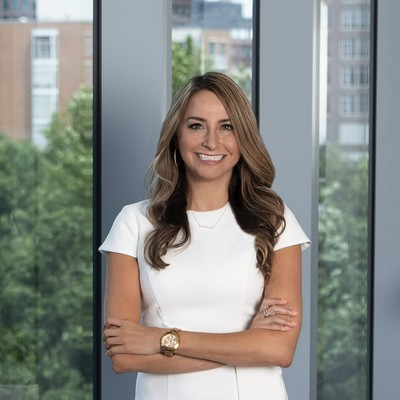
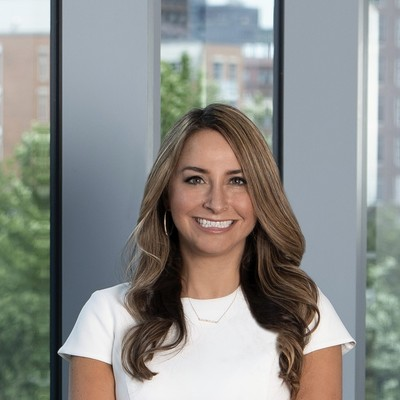
Frame realtor headshots as full squares, add Armando Chacon with his real photo
The agent photos were inheriting the storefront-banner shapes (up to 3:1),
which cropped foreheads and chins off square headshots. Agent photos now use
explicit squares matching the source aspect, so nothing is clipped: a 240px
square in the spotlight and a 150px circle in the grid.

- Armando Chacon is back with the headshot Dan supplied, plus his verified
  Instagram, Facebook, and LinkedIn.
- Ilsa Conover's photo replaced the initials placeholder and is cropped tighter
  so her face reads at the same scale as the others.
- Agent image URLs carry a ?v= token: the filenames did not change, so
  returning visitors would otherwise keep seeing the cached placeholder.

diff --git a/css/style.css b/css/style.css
@@ -994,6 +994,38 @@ body.photo-banner .hero {
 .hh-meta { font-size: 0.8rem; color: var(--muted); margin: 4px 0 2px; }
 .hh-when { font-size: 0.85rem; color: var(--navy); margin: 0 0 6px; }
 .hh-deal { font-size: 0.9rem; color: var(--text); margin: 0 0 8px; }
+/* Realtor headshots. Business photos are wide storefront banners; a square
+   headshot forced into one gets its forehead and chin sliced off. These are
+   explicit squares that match the source's own shape, so nothing is cropped.
+   The !important flags beat .spotlight-card img's min-height and .card-img's
+   full-bleed negative margins, which are right for storefronts, not faces. */
+.agent-photo {
+  width: 240px !important;
+  height: 240px !important;
+  min-height: 0 !important;
+  max-height: none !important;
+  object-fit: cover;
+  object-position: 50% 15%;
+  border-radius: var(--radius);
+  margin: 24px auto !important;
+  justify-self: center;
+  align-self: start;
+  background: #eef2f6;
+}
+.agent-card-img {
+  width: 150px !important;
+  height: 150px !important;
+  max-height: none !important;
+  margin: 4px auto 12px !important;
+  border-radius: 50%;
+  object-fit: cover;
+  object-position: 50% 15%;
+  display: block;
+}
+@media (max-width: 700px) {
+  .agent-photo { width: 200px !important; height: 200px !important; margin: 18px auto !important; }
+}
+
 .agent-socials { display: flex; flex-wrap: wrap; gap: 0.5rem; margin: 0.4rem 0 0.6rem; }
 .agent-social-link { font-size: 0.78rem; font-weight: 600; color: var(--navy); text-decoration: none;
   border: 1px solid var(--border); border-radius: 999px; padding: 0.18rem 0.7rem; background: #fff; }

diff --git a/housing.html b/housing.html
@@ -4,7 +4,7 @@
 <meta charset="UTF-8">
 <meta name="viewport" content="width=device-width, initial-scale=1.0">
 <title>Find a Home | In and Around the West Loop</title>
-<link rel="stylesheet" href="css/style.css?v=20260721b">
+<link rel="stylesheet" href="css/style.css?v=20260721d">
 <meta property="og:type" content="website">
 <meta property="og:site_name" content="34thward.com">
 <meta property="og:title" content="The Official 34th Ward Neighborhood Page">
@@ -123,7 +123,7 @@
   <section class="spotlight-section" id="agent-spotlight" hidden style="margin-top:0;">
     <div class="spotlight-inner">
       <div class="spotlight-card">
-        <img id="agent-img" src="" alt="">
+        <img id="agent-img" class="agent-photo" src="" alt="">
         <div class="spotlight-body">
           <h3 id="agent-name"></h3>
           <p class="spotlight-address" id="agent-brokerage"></p>
@@ -170,7 +170,7 @@
       .join('');
   }
 
-  fetch('data/agents.json?d=20260721c')
+  fetch('data/agents.json?d=20260721e')
     .then((r) => r.json())
     .then((data) => {
       // Only agents with a real photo are listed or featured (owner rule).
@@ -195,7 +195,7 @@
 
       document.getElementById('agents-grid').innerHTML = agents.map((a) => {
         const pic = a.image
-          ? `<img class="card-img" src="${escA(a.image)}" alt="${escA(a.name)}" onerror="this.remove()">`
+          ? `<img class="card-img agent-card-img" src="${escA(a.image)}" alt="${escA(a.name)}" onerror="this.remove()">`
           : '';
         const phone = a.phone ? ` &middot; ${esc(a.phone)}` : '';
         return `<article class="card">

diff --git a/agent-archive.html b/agent-archive.html
@@ -4,7 +4,7 @@
 <meta charset="UTF-8">
 <meta name="viewport" content="width=device-width, initial-scale=1.0">
 <title>Agent Spotlight Archive | In and Around the West Loop</title>
-<link rel="stylesheet" href="css/style.css?v=20260721b">
+<link rel="stylesheet" href="css/style.css?v=20260721d">
 <meta property="og:type" content="website">
 <meta property="og:site_name" content="34thward.com">
 <meta property="og:title" content="The Official 34th Ward Neighborhood Page">
@@ -74,7 +74,7 @@
 <script>
   document.getElementById('year').textContent = new Date().getFullYear();
 
-  const ARCHIVE_DATA_V = '20260721c';
+  const ARCHIVE_DATA_V = '20260721e';
 
   fetch('data/agents.json?d=' + ARCHIVE_DATA_V)
     .then((r) => r.json())

diff --git a/archive.html b/archive.html
@@ -4,7 +4,7 @@
 <meta charset="UTF-8">
 <meta name="viewport" content="width=device-width, initial-scale=1.0">
 <title>Business Spotlight Archive | In and Around the West Loop</title>
-<link rel="stylesheet" href="css/style.css?v=20260721b">
+<link rel="stylesheet" href="css/style.css?v=20260721d">
 <meta property="og:type" content="website">
 <meta property="og:site_name" content="34thward.com">
 <meta property="og:title" content="The Official 34th Ward Neighborhood Page">

diff --git a/culture.html b/culture.html
@@ -4,7 +4,7 @@
 <meta charset="UTF-8">
 <meta name="viewport" content="width=device-width, initial-scale=1.0">
 <title>Museums &amp; Theaters | In and Around the West Loop</title>
-<link rel="stylesheet" href="css/style.css?v=20260721b">
+<link rel="stylesheet" href="css/style.css?v=20260721d">
 <meta property="og:type" content="website">
 <meta property="og:site_name" content="34thward.com">
 <meta property="og:title" content="The Official 34th Ward Neighborhood Page">

diff --git a/directory.html b/directory.html
@@ -4,7 +4,7 @@
 <meta charset="UTF-8">
 <meta name="viewport" content="width=device-width, initial-scale=1.0">
 <title>Business Directory | In and Around the West Loop</title>
-<link rel="stylesheet" href="css/style.css?v=20260721b">
+<link rel="stylesheet" href="css/style.css?v=20260721d">
 <meta property="og:type" content="website">
 <meta property="og:site_name" content="34thward.com">
 <meta property="og:title" content="The Official 34th Ward Neighborhood Page">

diff --git a/happyhour.html b/happyhour.html
@@ -4,7 +4,7 @@
 <meta charset="UTF-8">
 <meta name="viewport" content="width=device-width, initial-scale=1.0">
 <title>Happy Hour Deals | In and Around the West Loop</title>
-<link rel="stylesheet" href="css/style.css?v=20260721b">
+<link rel="stylesheet" href="css/style.css?v=20260721d">
 <meta property="og:type" content="website">
 <meta property="og:site_name" content="34thward.com">
 <meta property="og:title" content="The Official 34th Ward Neighborhood Page">

diff --git a/index.html b/index.html
@@ -4,7 +4,7 @@
 <meta charset="UTF-8">
 <meta name="viewport" content="width=device-width, initial-scale=1.0">
 <title>In and Around the West Loop | Community News</title>
-<link rel="stylesheet" href="css/style.css?v=20260721b">
+<link rel="stylesheet" href="css/style.css?v=20260721d">
 <meta property="og:type" content="website">
 <meta property="og:site_name" content="34thward.com">
 <meta property="og:title" content="The Official 34th Ward Neighborhood Page">

diff --git a/map.html b/map.html
@@ -5,7 +5,7 @@
 <meta name="viewport" content="width=device-width, initial-scale=1.0">
 <title>Ward Map &amp; Neighborhoods | In and Around the West Loop</title>
 <link rel="stylesheet" href="https://unpkg.com/maplibre-gl@4.7.1/dist/maplibre-gl.css">
-<link rel="stylesheet" href="css/style.css?v=20260721b">
+<link rel="stylesheet" href="css/style.css?v=20260721d">
 <meta property="og:type" content="website">
 <meta property="og:site_name" content="34thward.com">
 <meta property="og:title" content="The Official 34th Ward Neighborhood Page">

diff --git a/resources.html b/resources.html
@@ -4,7 +4,7 @@
 <meta charset="UTF-8">
 <meta name="viewport" content="width=device-width, initial-scale=1.0">
 <title>Resident Resources | In and Around the West Loop</title>
-<link rel="stylesheet" href="css/style.css?v=20260721b">
+<link rel="stylesheet" href="css/style.css?v=20260721d">
 <meta property="og:type" content="website">
 <meta property="og:site_name" content="34thward.com">
 <meta property="og:title" content="The Official 34th Ward Neighborhood Page">

diff --git a/source.html b/source.html
@@ -4,7 +4,7 @@
 <meta charset="UTF-8">
 <meta name="viewport" content="width=device-width, initial-scale=1.0">
 <title>Section | The Official 34th Ward Neighborhood Page</title>
-<link rel="stylesheet" href="css/style.css?v=20260721b">
+<link rel="stylesheet" href="css/style.css?v=20260721d">
 <meta property="og:type" content="website">
 <meta property="og:site_name" content="34thward.com">
 <meta property="og:title" content="The Official 34th Ward Neighborhood Page">